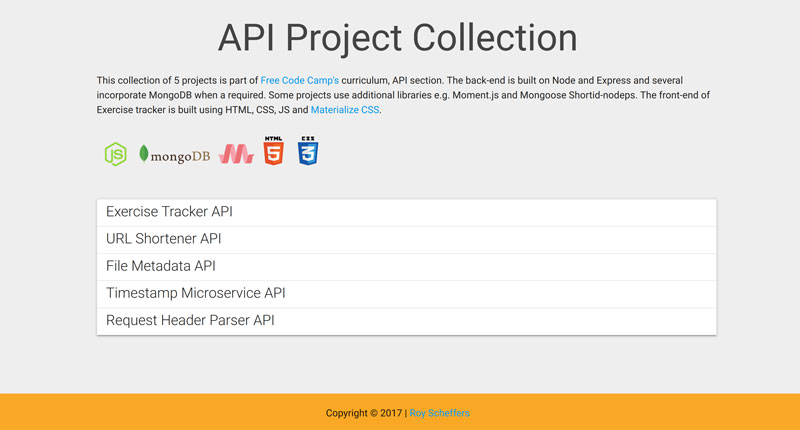
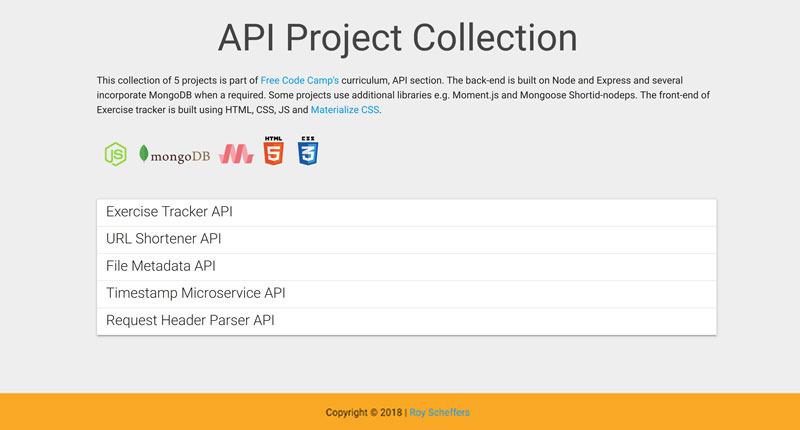
update year in footer

Changed region(s): [[0.0, 0.907, 1.0, 0.9674]]

diff --git a/exercise-tracker/public/index.html b/exercise-tracker/public/index.html
@@ -224,7 +224,7 @@
       </div>
     </main>
     <footer class="page-footer yellow darken-3">
-      Copyright © 2017 | <a href="http://royscheffers.com" target="_blank">Roy Scheffers</a>
+      Copyright © <span id="copyright-year">2018</span> | <a href="http://royscheffers.com" target="_blank">Roy Scheffers</a>
     </footer>
 
     <script
@@ -234,4 +234,8 @@
     <script src="https://cdnjs.cloudflare.com/ajax/libs/materialize/0.98.0/js/materialize.min.js"></script>
     <script src="./functions.js" type="text/javascript"></script>
   </body>
+  <script>
+    var year = (new Date()).getFullYear();
+    document.querySelector('#copyright-year').innerHTML = year;
+  </script>
 </html>

diff --git a/public/index.html b/public/index.html
@@ -193,9 +193,12 @@
     </div>
   </main>
   <footer class="page-footer yellow darken-3">
-    Copyright © 2017 | <a href="http://royscheffers.com" target="_blank">Roy Scheffers</a>
+    Copyright © <span id="copyright-year">2018</span> | <a href="http://royscheffers.com" target="_blank">Roy Scheffers</a>
   </footer>
-
+  <script>
+    var year = (new Date()).getFullYear();
+    document.querySelector('#copyright-year').innerHTML = year;
+  </script>  
   <script
   src="https://code.jquery.com/jquery-3.1.1.min.js"
   integrity="sha256-hVVnYaiADRTO2PzUGmuLJr8BLUSjGIZsDYGmIJLv2b8="

diff --git a/timestamp-ms/public/index.html b/timestamp-ms/public/index.html
@@ -88,7 +88,7 @@
     </main>
 
     <footer class="page-footer grey lighten-2">
-      Copyright © 2017 | <a href="http://royscheffers.com" target="_blank">Roy Scheffers</a>
+      Copyright © <span id="copyright-year">2018</span> | <a href="http://royscheffers.com" target="_blank">Roy Scheffers</a>
     </footer>
 
   </body>
@@ -103,5 +103,7 @@
       console.log(url);
       window.location.assign(encodeURI(url));
     }
+    var year = (new Date()).getFullYear();
+    document.querySelector('#copyright-year').innerHTML = year;
   </script>
 </html>

diff --git a/url-shortener/public/index.html b/url-shortener/public/index.html
@@ -86,7 +86,7 @@
     </main>
 
     <footer class="page-footer grey lighten-2">
-      Copyright © 2017 | <a href="http://royscheffers.com" target="_blank">Roy Scheffers</a>
+      Copyright © <span id="copyright-year">2018</span> | <a href="http://royscheffers.com" target="_blank">Roy Scheffers</a>
     </footer>
 
   </body>
@@ -101,5 +101,7 @@
       console.log(url);
       window.location.assign(encodeURI(url));
     }
+    var year = (new Date()).getFullYear();
+    document.querySelector('#copyright-year').innerHTML = year;
   </script>
 </html>

diff --git a/file-metadata/public/index.html b/file-metadata/public/index.html
@@ -82,7 +82,7 @@
     </main>
 
     <footer class="page-footer grey lighten-2">
-      Copyright © 2017 | <a href="http://royscheffers.com" target="_blank">Roy Scheffers</a>
+      Copyright © <span id="copyright-year">2018</span> | <a href="http://royscheffers.com" target="_blank">Roy Scheffers</a>
     </footer>
 
   </body>
@@ -97,5 +97,7 @@
       console.log(url);
       window.location.assign(encodeURI(url));
     }
+    var year = (new Date()).getFullYear();
+    document.querySelector('#copyright-year').innerHTML = year;
   </script>
 </html>
